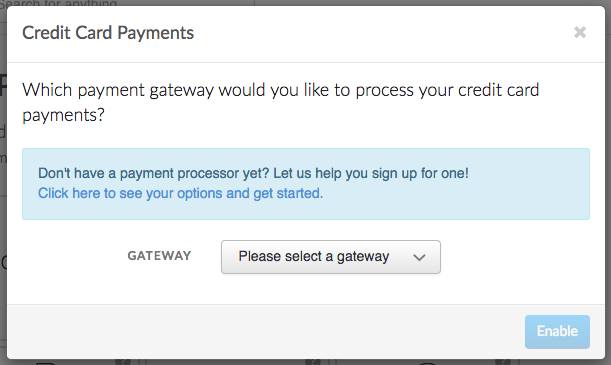
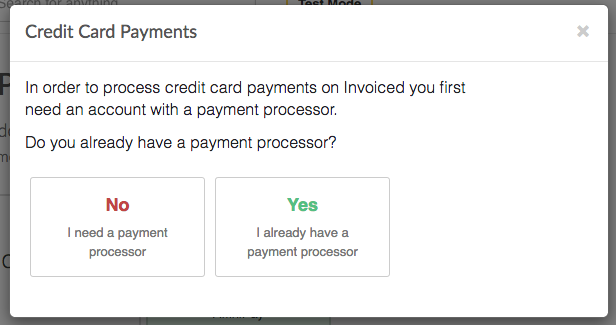
added chase paymentech integration guide

diff --git a/integrations/chase_paymentech.md b/integrations/chase_paymentech.md
@@ -1,0 +1,58 @@
+# Chase Paymentech Integration
+
+This document details how to connect the [Chase Paymentech](https://www.chasepaymentech.com/) payment gateway to accept payments and how our integration works.
+
+## Capabilities
+
+The Chase Paymentech Orbital payment gateway on Invoiced supports the following features:
+
+- [Credit card payments](/docs/payments/card)
+- [ACH payments](/docs/payments/ach) (U.S. only)
+- Vaulting payment information (credit card and ACH)
+- [AutoPay](/docs/guides/autopay)
+
+## Prerequisite
+
+The Chase Paymentech integration uses the Orbital gateway with the Stratus Platform (BIN 000001). You need to make sure your gateway account is set up to process transactions for the right host platform.
+
+## Setup
+
+Connecting Chase Paymentech Orbital is a straightforward process. Follow these steps to start accepting payments through Chase Paymentech Orbital in minutes. These steps assume you already have a Chase Paymentech account.
+
+1. From the Invoiced dashboard go to **Settings** > **Payments**.
+
+   [![Payment Settings](../img/payment-settings.png)](../img/payment-settings.png)
+
+2. Click **Setup** on the payment method you want to accept.
+
+   [![Credit Card Payments Setup](../img/credit-card-payment-setup.png)](../img/credit-card-payment-setup.png)
+
+3. Select **Chase Paymentech Orbital** as the payment gateway.
+
+   [![Chase Paymentech Orbital Payments Setup](../img/chase-paymentech-setup.png)](../img/chase-paymentech-setup.png)
+
+4. Click **Connect your Chase Paymentech Orbital account**.
+
+   [![Chase Paymentech Orbital Settings Page](../img/chase-paymentech-connect.png)](../img/chase-paymentech-connect.png)
+
+5. Enter in your Chase Paymentech Orbital **Account ID** and **API Secret** and click **Save**. Then click **Enable** and the payment method you selected should be enabled.
+
+   [![Chase Paymentech Orbital Payments Enabled](../img/chase-paymentech-enabled.png)](../img/chase-paymentech-enabled.png)
+
+## Client Workflow
+
+### Credit Cards
+
+Paying with credit or debit card is fairly straightforward for customers. They simply enter in their cardholder information and click **Pay**. We give receipts to your customers after a successful payment.
+
+[![Pay Invoice with Credit Card](/docs/img/pay-invoice-credit-card.png)](/docs/img/pay-invoice-credit-card.png)
+
+### ACH
+
+Customers can pay with ACH just as easily as with credit cards. The key difference is that ACH payments will take several business days to clear. When customers are on a payment form they will select ACH as the payment information and then enter in their bank account and routing number.
+
+[![Pay Invoice with ACH](/docs/img/pay-invoice-ach.png)](/docs/img/pay-invoice-ach.png)
+
+## Support
+
+Need help with your Chase Paymentech Orbital account? You can get help by contacting your Chase account representative.
